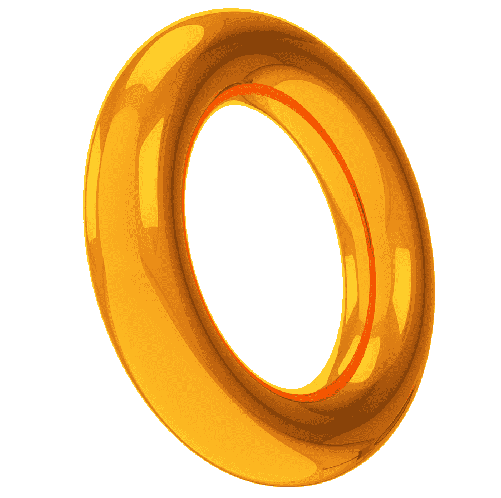
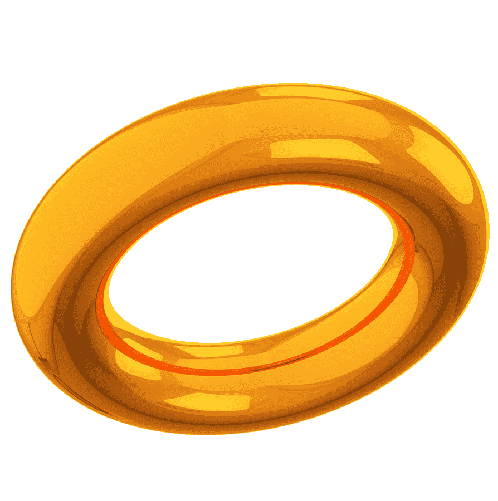
style: :art: diseño pagina

diff --git a/informacion/index.html b/informacion/index.html
@@ -4,23 +4,25 @@
   <meta charset="UTF-8">
   <meta http-equiv="X-UA-Compatible" content="IE=edge">
   <meta name="viewport" content="width=device-width, initial-scale=1.0">
-  <link rel="stylesheet" href="https://cdn.jsdelivr.net/npm/bootstrap@4.3.1/dist/css/bootstrap.min.css" integrity="sha384-ggOyR0iXCbMQv3Xipma34MD+dH/1fQ784/j6cY/iJTQUOhcWr7x9JvoRxT2MZw1T" crossorigin="anonymous">
-  <script src="https://code.jquery.com/jquery-3.3.1.slim.min.js" integrity="sha384-q8i/X+965DzO0rT7abK41JStQIAqVgRVzpbzo5smXKp4YfRvH+8abtTE1Pi6jizo" crossorigin="anonymous"></script>
-  <script src="https://cdn.jsdelivr.net/npm/popper.js@1.14.7/dist/umd/popper.min.js" integrity="sha384-UO2eT0CpHqdSJQ6hJty5KVphtPhzWj9WO1clHTMGa3JDZwrnQq4sF86dIHNDz0W1" crossorigin="anonymous"></script>
-  <script src="https://cdn.jsdelivr.net/npm/bootstrap@4.3.1/dist/js/bootstrap.min.js" integrity="sha384-JjSmVgyd0p3pXB1rRibZUAYoIIy6OrQ6VrjIEaFf/nJGzIxFDsf4x0xIM+B07jRM" crossorigin="anonymous"></script>
+  <link href="https://cdn.jsdelivr.net/npm/bootstrap@5.0.2/dist/css/bootstrap.min.css" rel="stylesheet" integrity="sha384-EVSTQN3/azprG1Anm3QDgpJLIm9Nao0Yz1ztcQTwFspd3yD65VohhpuuCOmLASjC" crossorigin="anonymous">
+  <script src="https://cdn.jsdelivr.net/npm/bootstrap@5.0.2/dist/js/bootstrap.bundle.min.js" integrity="sha384-MrcW6ZMFYlzcLA8Nl+NtUVF0sA7MsXsP1UyJoMp4YLEuNSfAP+JcXn/tWtIaxVXM" crossorigin="anonymous"></script>
+  <script src="https://cdn.jsdelivr.net/npm/@popperjs/core@2.9.2/dist/umd/popper.min.js" integrity="sha384-IQsoLXl5PILFhosVNubq5LC7Qb9DXgDA9i+tQ8Zj3iwWAwPtgFTxbJ8NT4GN1R8p" crossorigin="anonymous"></script>
+  <script src="https://cdn.jsdelivr.net/npm/bootstrap@5.0.2/dist/js/bootstrap.min.js" integrity="sha384-cVKIPhGWiC2Al4u+LWgxfKTRIcfu0JTxR+EQDz/bgldoEyl4H0zUF0QKbrJ0EcQF" crossorigin="anonymous"></script>
   <title>SONIC/INFORMACION</title>
   <link rel="stylesheet" href="https://cdn.jsdelivr.net/npm/bootstrap-icons@1.10.4/font/bootstrap-icons.css">
   <link rel="preconnect" href="https://fonts.googleapis.com">
   <link rel="preconnect" href="https://fonts.gstatic.com" crossorigin>
   <link href="https://fonts.googleapis.com/css2?family=Catamaran:wght@600&display=swap" rel="stylesheet">
+  <link rel="stylesheet" href="/informacion/style.css">
 </head>
 <body style="font-family: 'Catamaran', sans-serif;">
-  <div class="container">
+  <div id="padre" class="container-fluid p-3 bg-dark bg-gradient text-white">
     <div class="row">
-      <div class="col-xl-6 d-flex flex-column align-items-center">
+      <div class="d-flex flex-column align-items-center col-xl-6">
         <div>
-          <h1>SONIC EL ERIZO</h1>
-          <p class="fon">Mascota oficial de la compañía Sega. Presente en cómics, dibujos animados, libros y películas. 
+          <h1 class="text-center">SONIC EL ERIZO</h1>
+          <p class="text-center">Mascota oficial de la compañía Sega.
+            Presente en cómics, dibujos animados, libros y películas. 
             Es un erizo azul que tiene la habilidad de moverse 
             a altas velocidades, Su comida favorita son los chili dogs, 
             Héroe algo rebelde y relajado, le gusta hacer
@@ -29,10 +31,13 @@
             Acompañanos a conocer su aventura.</p>
         </div>
       </div>
-      <div class="d-flex justify-content-center col-xl-6">
-        <img src="/informacion/media/Sonic_SSBU.png" alt=".." width="80%">
-        <img src="/informacion/media/anillo.png" alt="0" width="20%" height="20%">
-      </div>
+      <div class="col-xl-6 mt-5 p-3">
+        <div class="d-flex justify-content-center position-relative">
+          <img id="imGemas" class="position-absolute z1" src="/informacion/media/gemas.png" alt=".." width="45%" height="35%">
+          <img class="z1" src="/informacion/media/Sonic_SSBU.png" alt=".." width="80%">
+          <img id="imRing" class="position-absolute" src="/informacion/media/anillo1.png" alt="0" width="80%" height="120%">
+        </div>
+        </div>
     </div>
   </div>
 </body>

diff --git a/informacion/style.css b/informacion/style.css
@@ -1,0 +1,24 @@
+#padre{
+    z-index: -20;
+}
+.z1{
+    z-index: 1;
+}
+#imGemas{
+    bottom: 0; 
+    left: 0; 
+    margin:0 0 4.5em 5.7em;
+}
+#imRing{
+    bottom: 0; 
+    left: 0; 
+    margin: 0 0 -1em 6.5em;
+}
+@media (max-width: 820px) {
+    #imGemas{
+        margin:0 0 3.5em 3.5em;
+    }
+    #imRing{
+        margin: 0 0 -1em 2.5em;
+    }    
+}
